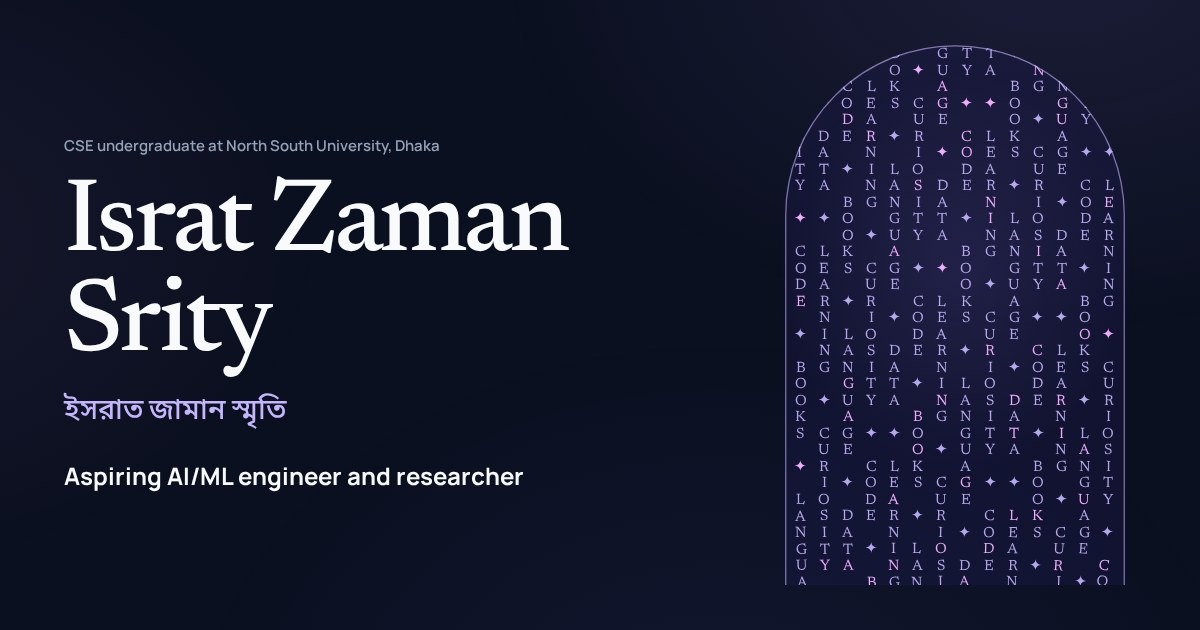
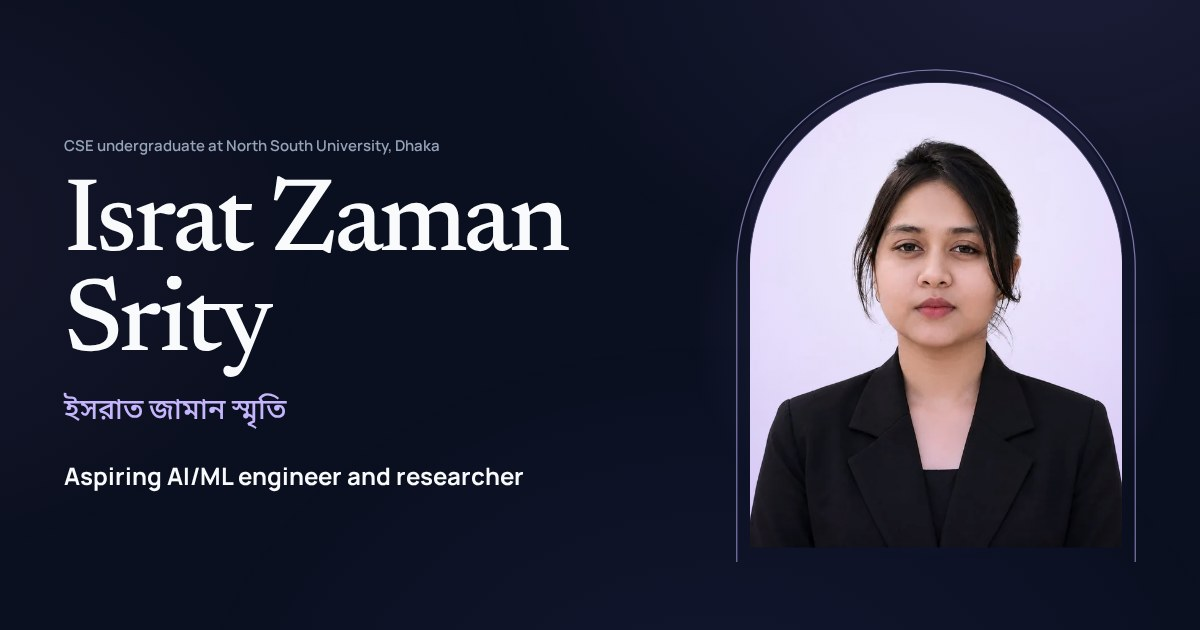
Put the portrait in the hero and move the chime curtain to About
The hero now shows the photo in an arch outline that draws on load, with
the photo rising into it. The chime doorway (still in the page's language)
sits beside the About text and unrolls with a brush-through the first time
it scrolls into view. Link-preview image now shows the portrait.

Claude-Session: https://claude.ai/code/session_014LQmD4Dj3HamxBUCw1pcnY

Changed region(s): [[0.6167, 0.0603, 0.9558, 0.9349]]

diff --git a/js/main.js b/js/main.js
@@ -1,5 +1,5 @@
 /*
- * Portfolio behaviour: languages (English, Bangla, Hindi, German, Italian, Spanish), navigation, the hero doorway, scroll effects,
+ * Portfolio behaviour: languages (English, Bangla, Hindi, German, Italian, Spanish), navigation, the hero portrait, the chime doorway, scroll effects,
  * the LeakGuard terminal, the contact form and the BookaholiChael book.
  * Plain JavaScript, no libraries. Everything respects "reduce motion".
  */
@@ -167,7 +167,25 @@
     }
 
     /* ------------------------------------------------------------------ */
-    /* Hero: the Bangla alphabet hanging in a doorway                       */
+    /* Arch outlines: an open doorway shape (sides and a round top)         */
+    /* ------------------------------------------------------------------ */
+    function archRise(el) {
+        return ((el.clientWidth / 2) / Math.max(1, el.clientHeight)) * 100
+    }
+    function drawArchLine(box, path) {
+        var w = box.clientWidth, h = box.clientHeight, i = 0.75, r = w / 2
+        path.ownerSVGElement.setAttribute("viewBox", "0 0 " + w + " " + h)
+        path.setAttribute("d", "M" + i + " " + h + "V" + r + "A" + (r - i) + " " + (r - i) + " 0 0 1 " + (w - i) + " " + r + "V" + h)
+        path.setAttribute("pathLength", "1")
+    }
+    // hero portrait: the outline draws and the photo rises into it once the fonts are in (CSS does the motion)
+    var frame = $("#portrait-frame")
+    var framePath = $(".arch-line path", frame)
+    drawArchLine(frame, framePath)
+    new ResizeObserver(function () { drawArchLine(frame, framePath) }).observe(frame)
+
+    /* ------------------------------------------------------------------ */
+    /* About: six words hanging in a doorway, in the page's language        */
     /* ------------------------------------------------------------------ */
     // The words come from "chimes.words" in each language; the typeface follows the script.
     var CHIME_FONTS = {
@@ -184,35 +202,24 @@
     }
     // switching language re-hangs the curtain with the new words
     function setChimes(code) {
-        if (!heroCurtain) return
+        if (!curtain) return
         loadChimeFont(code).then(function () {
             if (code !== lang()) return
-            heroCurtain.set({ text: chimeWords(code), fontFamily: chimeFont(code) })
-            if (reduce) return
+            curtain.set({ text: chimeWords(code), fontFamily: chimeFont(code) })
+            if (reduce || !arch.classList.contains("is-unrolled")) return
             arch.classList.remove("is-unrolled")
             void arch.offsetWidth
             arch.classList.add("is-unrolled")
         })
     }
-    var arch = $("#hero-arch")
+    var doorway = $(".doorway")
+    var arch = $("#chime-arch")
     var archPath = $(".arch-line path", arch)
-    var heroCurtain = null
-    var userMoved = false
-    window.addEventListener("pointermove", function () { userMoved = true }, { once: true, passive: true })
+    var curtain = null
 
-    function archRise(el) {
-        return ((el.clientWidth / 2) / Math.max(1, el.clientHeight)) * 100
-    }
-    function drawArchLine() {
-        var w = arch.clientWidth, h = arch.clientHeight, i = 0.75, r = w / 2
-        var svg = archPath.ownerSVGElement
-        svg.setAttribute("viewBox", "0 0 " + w + " " + h)
-        archPath.setAttribute("d", "M" + i + " " + h + "V" + r + "A" + (r - i) + " " + (r - i) + " 0 0 1 " + (w - i) + " " + r + "V" + h)
-        archPath.setAttribute("pathLength", "1")
-    }
-    function startHeroCurtain() {
-        if (!window.ChimeCurtain || heroCurtain) return
-        heroCurtain = new ChimeCurtain(arch, {
+    function startCurtain() {
+        if (!window.ChimeCurtain || curtain) return
+        curtain = new ChimeCurtain(arch, {
             text: chimeWords(lang()),
             fontFamily: chimeFont(lang()),
             color: "rgba(196, 181, 253, 0.92)",
@@ -232,59 +239,74 @@
             soundType: "chime",
             volume: 0.6,
         })
-        heroCurtain.canvas.style.touchAction = "pan-y" // let phones scroll the page with an up/down swipe
+        curtain.canvas.style.touchAction = "pan-y" // let phones scroll the page with an up/down swipe
         new ResizeObserver(function () {
-            drawArchLine()
-            heroCurtain.set({ archHeight: archRise(arch) })
+            drawArchLine(arch, archPath)
+            curtain.set({ archHeight: archRise(arch) })
         }).observe(arch)
     }
-    // On load a hand brushes through once, so visitors see that the strands move.
+    // The first time the doorway comes into view, the strands unroll and a hand brushes
+    // through once, so visitors see that they move. A real pointer movement takes over.
     function introSweep() {
-        if (reduce || !heroCurtain) return
-        var ptr = heroCurtain.ptr
+        if (reduce || !curtain) return
+        var ptr = curtain.ptr
         var w = arch.clientWidth, h = arch.clientHeight
-        var t0 = performance.now(), dur = 1700
+        var t0 = performance.now(), dur = 1700, stopped = false
+        var stop = function () { stopped = true }
+        window.addEventListener("pointermove", stop, { once: true, passive: true })
         ptr.x = ptr.lastX = -60
         ptr.y = ptr.lastY = h * 0.6
-        ;(function frame(now) {
-            if (userMoved) return
+        ;(function step(now) {
+            if (stopped) return
             var p = Math.min(1, (now - t0) / dur)
             var e = p < 0.5 ? 2 * p * p : 1 - Math.pow(-2 * p + 2, 2) / 2
             ptr.active = true
             ptr.x = -60 + (w + 120) * e
             ptr.y = h * (0.62 - 0.1 * Math.sin(p * Math.PI))
-            if (p < 1) requestAnimationFrame(frame)
-            else ptr.active = false
+            if (p < 1) requestAnimationFrame(step)
+            else {
+                ptr.active = false
+                window.removeEventListener("pointermove", stop)
+            }
         })(t0)
     }
+    function whenDoorwayShows(fn) {
+        if (!("IntersectionObserver" in window)) return fn()
+        var io = new IntersectionObserver(function (entries) {
+            if (!entries[0].isIntersecting) return
+            io.disconnect()
+            fn()
+        }, { threshold: 0.4 })
+        io.observe(arch)
+    }
 
-    var heroSound = $("#hero-sound")
+    var chimeSound = $("#chime-sound")
     function labelSound(btn, on) {
         btn.setAttribute("aria-pressed", on ? "true" : "false")
         var label = $(".sound-label", btn)
         label.setAttribute("data-i18n", on ? "sound.on" : "sound.off")
         label.innerHTML = t(label.getAttribute("data-i18n"))
     }
-    heroSound.addEventListener("click", function () {
-        if (!heroCurtain) return
-        var on = !heroCurtain.o.sound
-        heroCurtain.set({ sound: on })
+    chimeSound.addEventListener("click", function () {
+        if (!curtain) return
+        var on = !curtain.o.sound
+        curtain.set({ sound: on })
         if (on) ChimeCurtain.unlockAudio()
-        labelSound(heroSound, on)
+        labelSound(chimeSound, on)
     })
 
-    drawArchLine()
-    var fontsReady = loadChimeFont(lang())
+    drawArchLine(arch, archPath)
     var pageFonts = document.fonts ? Promise.race([document.fonts.ready, new Promise(function (r) { setTimeout(r, 800) })]) : Promise.resolve()
-
     pageFonts.then(function () {
         requestAnimationFrame(function () { doc.classList.add("is-ready") })
     })
-    fontsReady.then(function () {
-        startHeroCurtain()
+    loadChimeFont(lang()).then(function () {
+        startCurtain()
         if (reduce) return
-        setTimeout(function () { arch.classList.add("is-unrolled") }, 450)
-        setTimeout(introSweep, 1500)
+        whenDoorwayShows(function () {
+            setTimeout(function () { arch.classList.add("is-unrolled") }, 300)
+            setTimeout(introSweep, 1300)
+        })
     })
 
     /* ------------------------------------------------------------------ */

diff --git a/css/style.css b/css/style.css
@@ -1,6 +1,7 @@
 /* Israt Zaman Srity — portfolio
    Night-navy page, lavender accent, rose for small highlights, gold only for BookaholiChael.
-   The one bold element is the hero doorway: the Bangla alphabet hanging like wind chimes.
+   The hero is the portrait in an arch that draws itself; the bold element is the doorway in About,
+   where six words hang like wind chimes in the page's language.
    Other motion explains something: the terminal types its real output, timelines fill as you read.
    Everything still reads with JavaScript off and with "reduce motion" on. */
 
@@ -186,13 +187,23 @@ main, .footer { transition: opacity 0.22s ease; }
 .hero-social a:hover { color: var(--text); border-color: var(--accent); }
 .hero-social svg { width: 18px; height: 18px; }
 
-/* the doorway */
+/* the portrait, framed by an arch outline that draws itself on load */
+.hero-portrait { margin: 0; display: flex; justify-content: center; }
+.portrait-frame { position: relative; width: min(100%, 400px); padding: 14px; }
+.portrait-frame .arch-line { z-index: 0; }
+.portrait-frame .portrait { position: relative; z-index: 1; }
+.portrait-frame::before {
+  content: ""; position: absolute; z-index: -1; inset: 8% -12% 0; pointer-events: none;
+  background: radial-gradient(closest-side, rgba(167, 139, 250, 0.2), transparent);
+}
+
+/* the doorway with the chime curtain (About section) */
 .doorway { position: relative; margin: 0; display: flex; flex-direction: column; align-items: center; }
 .doorway::before {
   content: ""; position: absolute; z-index: -1; top: 4%; left: 0; right: 0; height: 76%; pointer-events: none;
   background: radial-gradient(closest-side, rgba(167, 139, 250, 0.16), transparent);
 }
-.arch { position: relative; width: min(100%, 380px); height: min(70vh, 640px); min-height: 440px; }
+.arch { position: relative; width: 100%; height: 480px; }
 .arch canvas { z-index: 1; }
 .arch-line { position: absolute; inset: 0; z-index: 2; width: 100%; height: 100%; overflow: visible; pointer-events: none; }
 .arch-line path { fill: none; stroke: rgba(196, 181, 253, 0.6); stroke-width: 1.25; }
@@ -213,14 +224,16 @@ main, .footer { transition: opacity 0.22s ease; }
 .js .intro { opacity: 0; transform: translateY(16px); }
 .js .hero-name .line > span { transform: translateY(110%); }
 .js .arch-line path { stroke-dasharray: 1; stroke-dashoffset: 1; }
+.js .portrait-frame .portrait { clip-path: inset(100% 0 0 0); }
+.js .portrait-frame .portrait img { scale: 1.08; }
 .js .arch canvas { clip-path: inset(0 0 100% 0); }
-.js .arch-caption { opacity: 0; }
 .is-ready .hero-name .line > span { transform: none; transition: transform 1.2s var(--ease) 0.15s; }
 .is-ready .hero-name .line:nth-child(2) > span { transition-delay: 0.27s; }
 .is-ready .intro { opacity: 1; transform: none; transition: opacity 1s var(--ease), transform 1s var(--ease); transition-delay: calc(var(--d, 0) * 90ms + 200ms); }
-.is-ready .arch-line path { stroke-dashoffset: 0; transition: stroke-dashoffset 1.8s cubic-bezier(0.65, 0, 0.35, 1) 0.2s; }
+.is-ready .portrait-frame .arch-line path, .doorway.is-in .arch-line path { stroke-dashoffset: 0; transition: stroke-dashoffset 1.8s cubic-bezier(0.65, 0, 0.35, 1) 0.2s; }
+.is-ready .portrait-frame .portrait { clip-path: inset(0 0 0 0); transition: clip-path 1.5s var(--ease) 0.45s; }
+.is-ready .portrait-frame .portrait img { scale: 1; transition: scale 2s var(--ease) 0.45s; }
 .arch.is-unrolled canvas { clip-path: inset(0 0 0 0); transition: clip-path 1.7s var(--ease); }
-.is-ready .arch-caption { opacity: 1; transition: opacity 1s ease 2.2s; }
 
 /* ---------- sections ---------- */
 .section { padding-block: clamp(80px, 10vw, 128px); border-top: 1px solid rgba(34, 48, 74, 0.7); }
@@ -238,7 +251,7 @@ main, .footer { transition: opacity 0.22s ease; }
 .js [data-reveal].is-in { opacity: 1; transform: none; }
 
 /* ---------- about ---------- */
-.about-grid { display: grid; grid-template-columns: minmax(0, 320px) minmax(0, 1fr); gap: clamp(36px, 7vw, 100px); align-items: start; }
+.about-grid { display: grid; grid-template-columns: minmax(0, 340px) minmax(0, 1fr); gap: clamp(36px, 7vw, 100px); align-items: start; }
 .portrait {
   aspect-ratio: 4 / 5; overflow: hidden; border-radius: 9999px 9999px 18px 18px;
   background: radial-gradient(circle at 50% 30%, #F6F2FF 0%, #E8DDFB 58%, #D8C7F6 100%);
@@ -476,9 +489,11 @@ main, .footer { transition: opacity 0.22s ease; }
   .nav-indicator { display: none; }
   .hero { min-height: 0; padding: calc(var(--nav-h) + 36px) 0 72px; }
   .hero-grid { grid-template-columns: 1fr; gap: 48px; }
-  .arch { width: min(100%, 340px); height: 460px; min-height: 0; }
+  .hero-portrait { order: -1; }
+  .portrait-frame { width: min(66vw, 270px); padding: 10px; }
+  .doorway { width: min(100%, 360px); margin-inline: auto; }
+  .arch { height: 460px; }
   .about-grid { grid-template-columns: 1fr; }
-  .portrait { width: min(70vw, 260px); }
   .journey, .lead-grid { grid-template-columns: 1fr; }
 }
 @media (max-width: 680px) {
@@ -509,10 +524,12 @@ main, .footer { transition: opacity 0.22s ease; }
   .js .intro, .js [data-reveal], .js .arch-caption { opacity: 1 !important; transform: none !important; }
   .js .hero-name .line > span { transform: none !important; }
   .js .arch-line path { stroke-dashoffset: 0 !important; }
-  .js .arch canvas { clip-path: none !important; }
+  .js .arch canvas, .js .portrait-frame .portrait { clip-path: none !important; }
+  .js .portrait-frame .portrait img { scale: 1 !important; }
   .js .timeline { --progress: 1; }
   .js .tl-item::before { border-color: var(--accent); background: var(--accent); }
 }
 
 /* without JavaScript there is no curtain to show */
 html:not(.js) .doorway { display: none; }
+html:not(.js) .about-grid { grid-template-columns: 1fr; }

diff --git a/index.html b/index.html
@@ -128,17 +128,16 @@
       </div>
     </div>
 
-    <figure class="doorway">
-      <div class="arch" id="hero-arch">
+    <figure class="hero-portrait">
+      <div class="portrait-frame" id="portrait-frame">
         <svg class="arch-line" aria-hidden="true"><path /></svg>
+        <div class="portrait">
+          <picture>
+            <source type="image/webp" srcset="img/srity-360.webp 360w, img/srity-640.webp 640w" sizes="(max-width: 900px) 260px, 380px">
+            <img src="img/srity-640.jpg" width="640" height="750" alt="Portrait of Israt Zaman Srity" fetchpriority="high">
+          </picture>
+        </div>
       </div>
-      <figcaption class="arch-caption">
-        <span data-i18n="hero.7">Curiosity, code, books, language, data and learning, hung like wind chimes. Move through them.</span>
-        <button type="button" class="sound-btn" id="hero-sound" aria-pressed="false">
-          <svg viewBox="0 0 24 24" aria-hidden="true"><g fill="none" stroke="currentColor" stroke-width="1.7" stroke-linecap="round" stroke-linejoin="round"><path d="M4 9.5h3.2L12 5.5v13l-4.8-4H4z"/><path class="wave" d="M15.5 9a4.2 4.2 0 0 1 0 6M18.2 6.5a8 8 0 0 1 0 11"/></g></svg>
-          <span class="sound-label" data-i18n="sound.off">Turn on sound</span>
-        </button>
-      </figcaption>
     </figure>
   </div>
 </section>
@@ -146,12 +145,18 @@
 <!-- ============================== ABOUT ============================== -->
 <section id="about" class="section">
   <div class="container about-grid">
-    <div class="portrait" data-reveal>
-      <picture>
-        <source type="image/webp" srcset="img/srity-360.webp 360w, img/srity-640.webp 640w" sizes="(max-width: 900px) 240px, 320px">
-        <img src="img/srity-640.jpg" width="640" height="750" alt="Portrait of Israt Zaman Srity" loading="lazy">
-      </picture>
-    </div>
+    <figure class="doorway" data-reveal>
+      <div class="arch" id="chime-arch">
+        <svg class="arch-line" aria-hidden="true"><path /></svg>
+      </div>
+      <figcaption class="arch-caption">
+        <span data-i18n="hero.7">Curiosity, code, books, language, data and learning, hung like wind chimes. Move through them.</span>
+        <button type="button" class="sound-btn" id="chime-sound" aria-pressed="false">
+          <svg viewBox="0 0 24 24" aria-hidden="true"><g fill="none" stroke="currentColor" stroke-width="1.7" stroke-linecap="round" stroke-linejoin="round"><path d="M4 9.5h3.2L12 5.5v13l-4.8-4H4z"/><path class="wave" d="M15.5 9a4.2 4.2 0 0 1 0 6M18.2 6.5a8 8 0 0 1 0 11"/></g></svg>
+          <span class="sound-label" data-i18n="sound.off">Turn on sound</span>
+        </button>
+      </figcaption>
+    </figure>
     <div class="about-main">
       <h2 class="title" data-reveal><span data-i18n="about.1">Where engineering meets research</span></h2>
       <div class="about-text" data-reveal>

diff --git a/README.md b/README.md
@@ -6,7 +6,8 @@ My personal site: who I am, what I've built, and how to reach me. It's in six la
 
 ## What's on the page
 
-- **Hero:** my name in Latin and Bangla script (ইসরাত জামান স্মৃতি), and a doorway where six words (curiosity, code, books, language, data, learning) hang like wind chimes, in whichever language the page is showing. Move the cursor (or a finger) through them and the strands part; press *Turn on sound* to hear them.
+- **Hero:** my name in Latin and Bangla script (ইসরাত জামান স্মৃতি) and my photo in an arch that draws itself when the page opens.
+- **About:** a doorway where six words (curiosity, code, books, language, data, learning) hang like wind chimes, in whichever language the page is showing. Move the cursor (or a finger) through them and the strands part; press *Turn on sound* to hear them.
 - **Selected work:** the CSE445 Bank Marketing study, LeakGuard, Chime Gate and Study Hub, with links to the code and live sites.
 - **Experience, education, leadership, interests**, and the BookaholiChael book.
 
